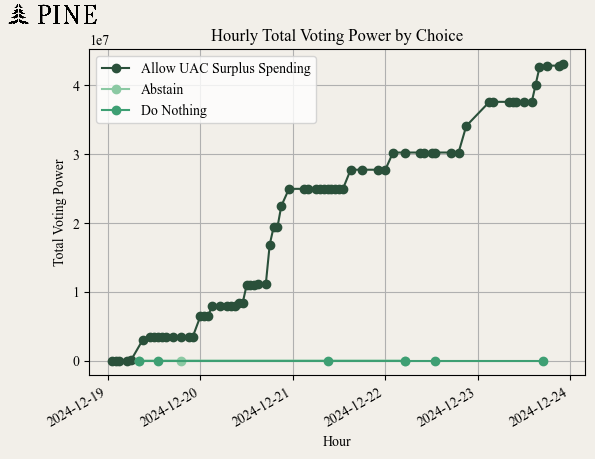
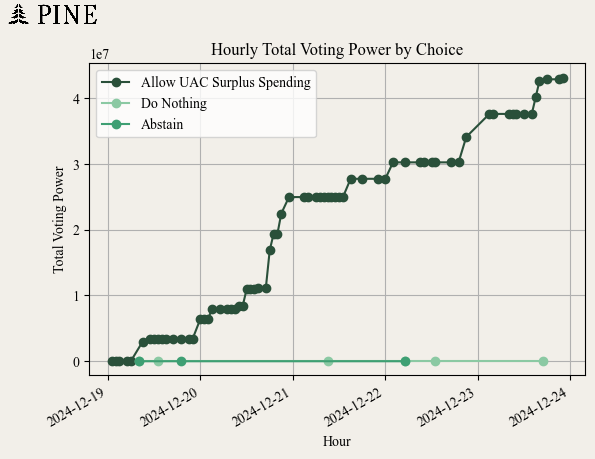
graph edits

diff --git a/Automated/Scripts/governance_handler.py b/Automated/Scripts/governance_handler.py
@@ -147,7 +147,7 @@ class GovernanceHandler:
             
             # proposal_id_str = f"{proposal_id}" MIGHT NOT NEED
 
[2 lines of base64/hex data omitted]
            
             # Messages for the current proposal
             messages = []
@@ -351,13 +351,11 @@ class GovernanceHandler:
             # Tweet 5
             ################################################################
 
-            part_5_message = f"""
-            5/ If you want to learn more about this {twitter_handle} proposal check out our @flipsidecrypto Dashboard:
-            
-            https://flipsidecrypto.xyz/pine/snapshot-proposal-lookup-nFH10H 
-            
-            To participate in the vote go here: {link_to_vote}
-            """
+            part_5_message = (
+                f"5/ If you want to learn more about this {twitter_handle} proposal check out our @flipsidecrypto Dashboard:\n\n"
+                "https://flipsidecrypto.xyz/pine/snapshot-proposal-lookup-nFH10H\n\n"
+                f"To participate in the vote go here: {link_to_vote}"
+            )
 
             messages.append(part_5_message)
 
@@ -394,13 +392,13 @@ class GovernanceHandler:
             cover_image = self.generate_space_image(space_id, 2)
             orginal_post_id = self.twitter_client.post_with_media(messages[0], cover_image)
 
[2 lines of base64/hex data omitted]
             thread1_id = self.twitter_client.post_thread_reply_with_media(messages[1], Tweet2_media, orginal_post_id)
 
[2 lines of base64/hex data omitted]
             thread2_id = self.twitter_client.post_thread_reply_with_media(messages[2], Tweet3_media, thread1_id)
 
[2 lines of base64/hex data omitted]
             thread3_id = self.twitter_client.post_thread_reply_with_media(messages[3], Tweet4_media, thread2_id)
 
             self.twitter_client.post_thread_reply(messages[4], thread3_id)

diff --git a/Automated/Scripts/graph_generator.py b/Automated/Scripts/graph_generator.py
@@ -90,7 +90,7 @@ class GraphGenerator:
 
         try:
             #fig.subplots_adjust(top=0.95, left=0.15, right=0.97, bottom=0.15)
-            
+            fig.subplots_adjust(top=0.85)
             # Load the logo image
             logo_img = Image.open(self.logo_path)
             imagebox = OffsetImage(logo_img, zoom=0.12)  # Adjust zoom for appropriate size
@@ -332,7 +332,7 @@ class GraphGenerator:
                 grouped_data[group] = []
             grouped_data[group].append((x, y))
 
-        fig, ax = plt.subplots()
+        fig, ax = plt.subplots(figsize=(8, 6))
         ax.set_facecolor('#f2efe9')
 
         # Create a scatter plot for each group
@@ -348,8 +348,23 @@ class GraphGenerator:
         ax.grid(True, zorder=1)
         fig.autofmt_xdate()
 
-        # Add logo
-        self.add_logo_to_figure(fig)
+        fig.subplots_adjust(top=0.9)
+        logo_img = Image.open(self.logo_path)
+        imagebox = OffsetImage(logo_img, zoom=0.12)  # Adjust zoom to resize
+
+        # 2) Adjust 'xy' and 'xycoords' to move the logo
+        #    - (0.01, 0.95) means x=0.01, y=0.95 in figure fraction coordinates.
+        #    - Increase x to move logo to the right, decrease x to move logo left.
+        #    - Increase y to move logo higher, decrease y to move it lower.
+        ab = AnnotationBbox(
+            imagebox,
+            (0.01, 0.86),           # <--- Change these numbers to move logo around
+            xycoords='figure fraction',
+            frameon=False,
+            box_alignment=(0, 1)    # (0,1) aligns left edge & top edge of the image
+        )
+        fig.add_artist(ab)
+
 
         return self.save_graph(fig, filename)
 

diff --git a/Automated/Scripts/flipside_gov_data.py b/Automated/Scripts/flipside_gov_data.py
@@ -651,7 +651,9 @@ if __name__ == "__main__":
     print(tweet4_path)
     '''
 
[1 lines of base64/hex data omitted]
-    print(data) 
[1 lines of base64/hex data omitted]
+    #print(data) 
 
- 
+
[1 lines of base64/hex data omitted]
+    print(results)
